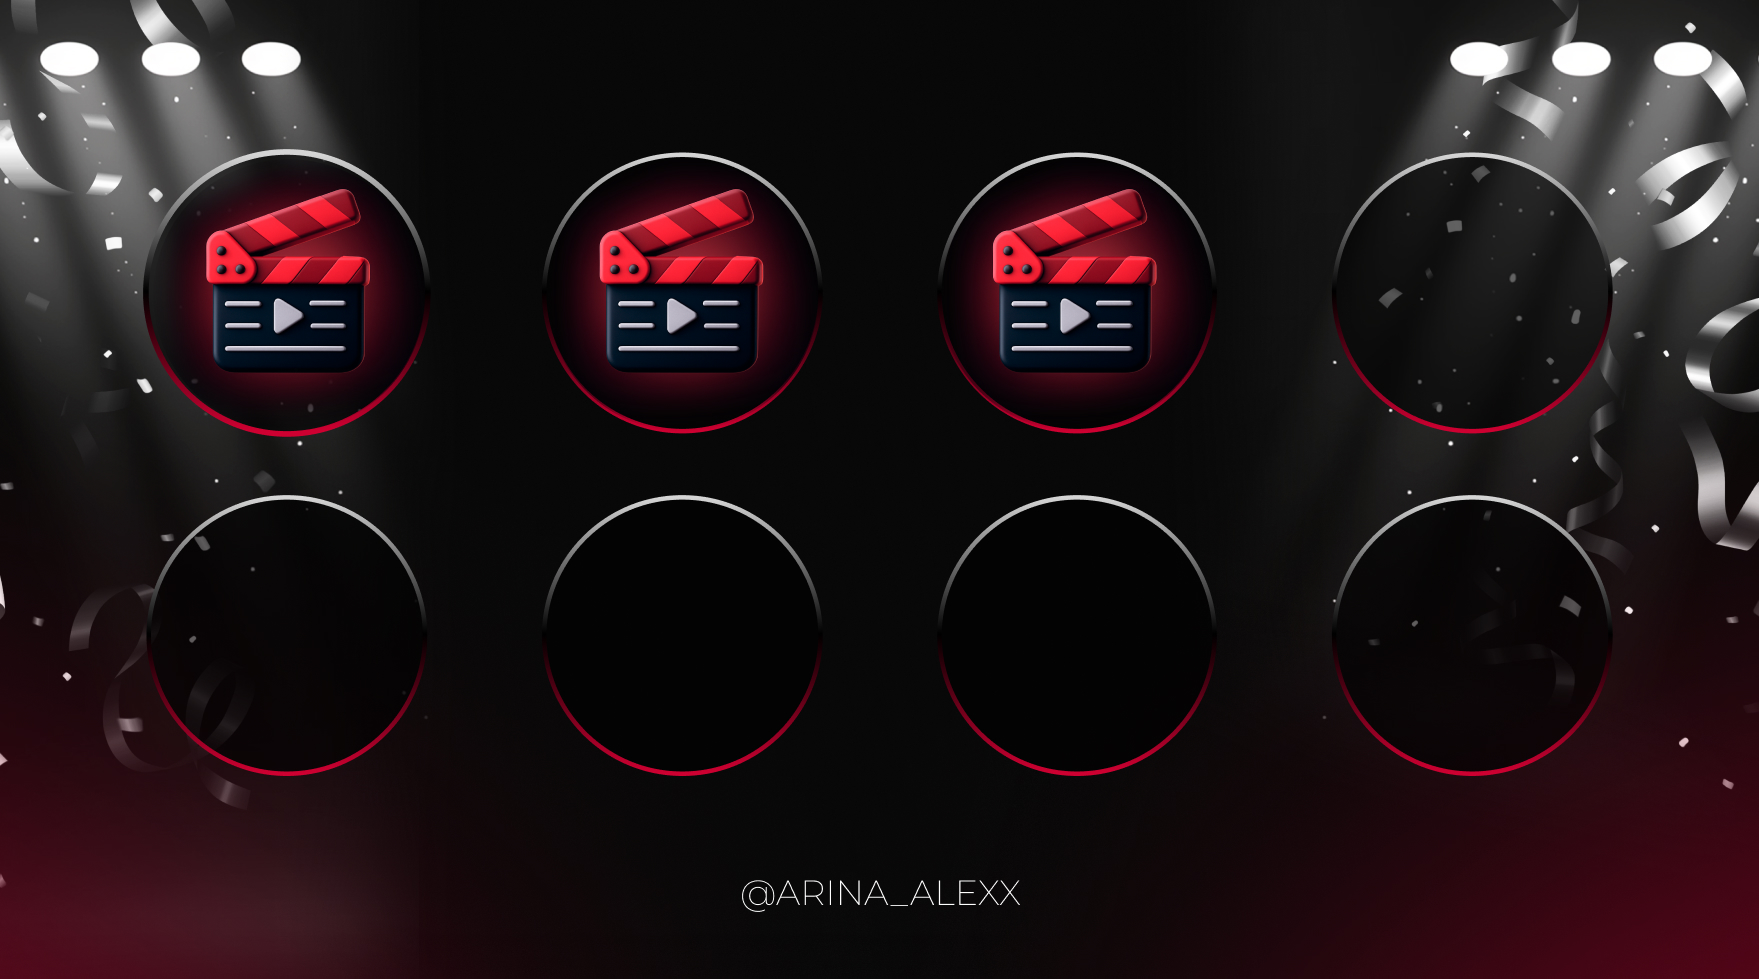
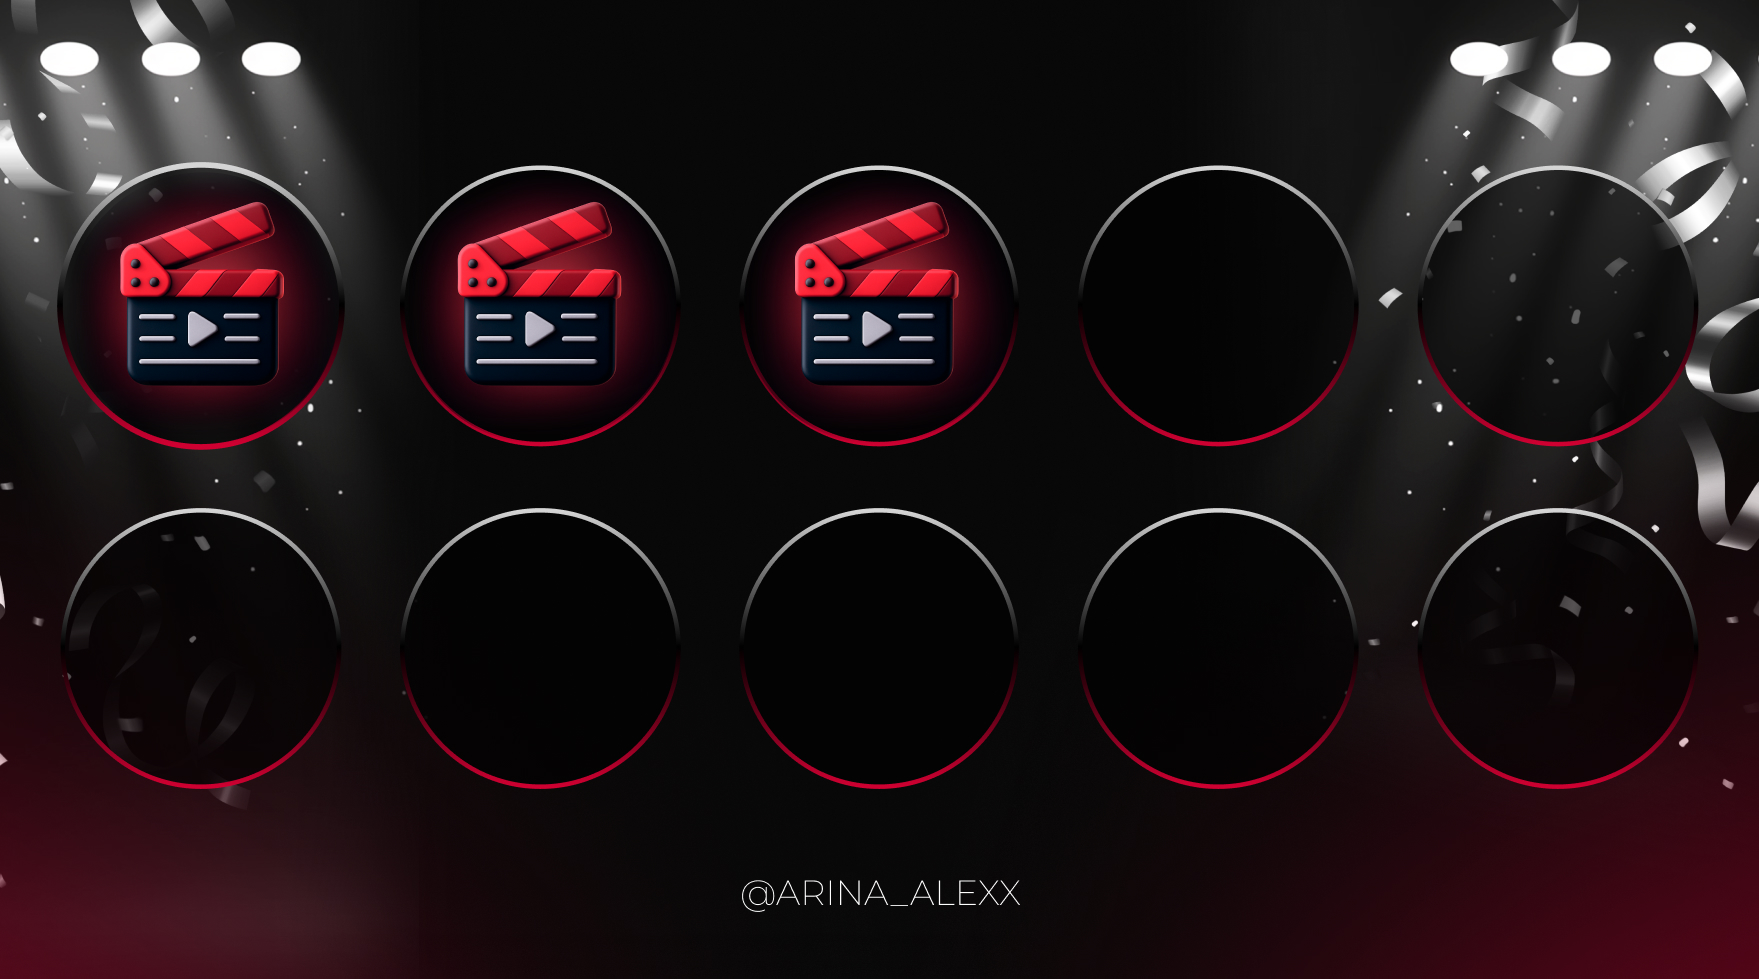
fixed images

diff --git a/handlers/start.py b/handlers/start.py
@@ -824,7 +824,7 @@ async def command_start_handler(call: CallbackQuery) -> None:
         count_claps = 11
         claps_path = "files/15_6/"
     elif float(users_flow) >= 15.8 and float(users_flow) < 16:
-        count_claps = 8
+        count_claps = 10
         claps_path = "files/15_8/"
 
     if count_required_homework == 0:
@@ -1747,9 +1747,9 @@ async def send_congratulation_message(message: Message, lesson_id: int, user_id)
         await asyncio.sleep(0.5)
         await message.bot.send_document(user_id, FSInputFile(f'files/Тренды в контенте 2026.pdf'))
 
-    elif count_required_homework >= 8 and float(users_flow) >= 15.8 and float(users_flow) < 16:
+    elif count_required_homework >= 10 and float(users_flow) >= 15.8 and float(users_flow) < 16:
         lesson_data = db.get_lesson(str(lesson_id), users_flow)
-        await message.bot.send_photo(user_id, photo=FSInputFile(f'files/15_8/{count_required_homework}.jpg'), caption="""Поздравляем!🎉 Тобой сданы все 8 обязательных заданий!🎬 Ты молодец😍
+        await message.bot.send_photo(user_id, photo=FSInputFile(f'files/15_8/{count_required_homework}.jpg'), caption="""Поздравляем!🎉 Тобой сданы все 10 обязательных заданий!🎬 Ты молодец😍
 
 Забирай свой бонус - «Тренды в контенте в 2026 году»""", parse_mode="HTML")
         await asyncio.sleep(0.5)

diff --git a/config.py b/config.py
@@ -137,7 +137,7 @@ CONGRATULATION_MESSAGE_4 = """Отлично! Твое задание <lesson_na
 
 🎬 За каждое принятое <u>обязательное задание</u> я буду выдавать тебе по одной хлопушке «Стоп, снято!» 
 
-Когда ты наберешь все 8 хлопушек, тебе откроется доступ к подарку - Бонус «Тренды в контенте в 2026 году»🔥"""
+Когда ты наберешь все 10 хлопушек, тебе откроется доступ к подарку - Бонус «Тренды в контенте в 2026 году»🔥"""
 
 
 AUTOMATIC_STRATEGY_LESSONS = {
